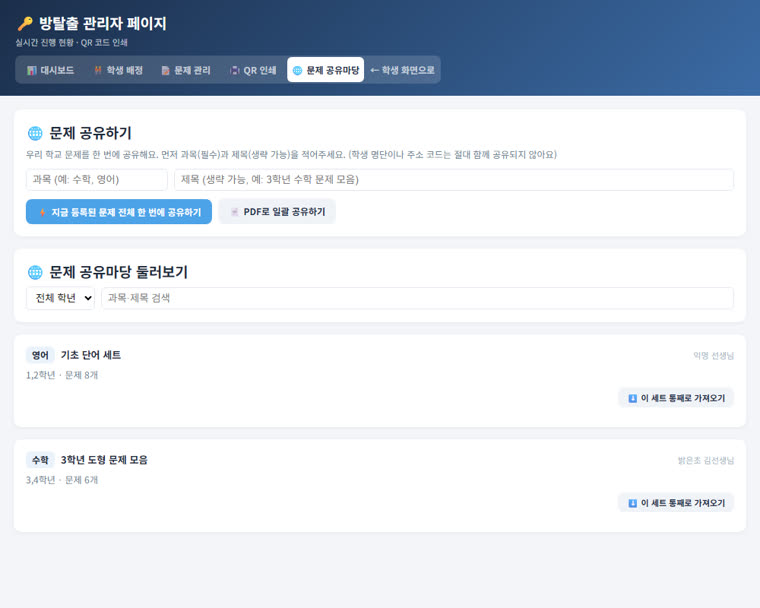
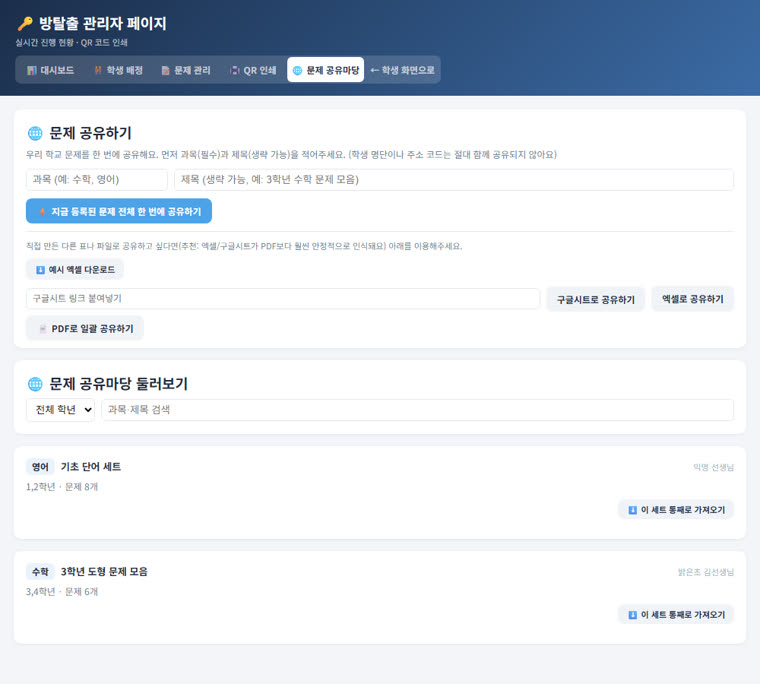
feat: add Excel/Google Sheets option to the question-sharing feature too
The 문제 공유마당 tab's bulk-share still only offered a PDF path, the
same font/text-extraction fragility already fixed for regular question
uploads. Added 엑셀로 공유하기/구글시트로 공유하기 alongside it, reusing
parseQuestionsSheetRows and the existing example .xlsx, with PDF kept
as a fallback. Refactored the PDF/Excel share handlers to share a
buildShareQuestionsMap() helper. Verified end-to-end: uploading the
sample sheet pushes a shared set with the correct 3 non-random
questions. Updated the usage guide's step 8 and its screenshot to match.

diff --git a/index.html b/index.html
@@ -1173,7 +1173,8 @@ function renderGuideTab(targetId){
     "우리 학교가 만든 문제를 다른 학교 선생님과 나누거나, 반대로 다른 학교가 공유한 문제를 통째로 가져와 쓸 수 있는 기능이에요. 꼭 쓰지 않아도 되고, 필요할 때만 이용하시면 돼요.",
     [
     "위쪽 탭에서 <b>문제 공유마당</b>을 누르면 위쪽에는 공유하기, 아래쪽에는 다른 선생님들이 올린 문제 목록이 나와요.",
-    "과목(필수)과 제목(생략 가능)을 적은 뒤 <b>지금 등록된 문제 전체 한 번에 공유하기</b>를 누르면, 지금 우리 학교에 저장된 문제가 통째로 공유마당에 올라가요. PDF 파일로도 바로 공유할 수 있어요.",
+    "과목(필수)과 제목(생략 가능)을 적은 뒤 <b>지금 등록된 문제 전체 한 번에 공유하기</b>를 누르면, 지금 우리 학교에 저장된 문제가 통째로 공유마당에 올라가요.",
+    "따로 만든 표나 파일로 공유하고 싶다면 <b>엑셀로 공유하기</b> 또는 <b>구글시트로 공유하기</b>를 이용해주세요 (3단계의 엑셀 예시와 같은 형식이에요). PDF로도 공유할 수 있지만, 3단계와 마찬가지로 PDF는 만든 프로그램에 따라 인식이 안 될 수 있어 엑셀/구글시트를 추천해요.",
     "학생 명단이나 우리 학교 주소 코드, 비밀번호는 절대 함께 공유되지 않아요 — 오직 문제 내용만 올라가요.",
     "다른 학교가 올린 세트가 마음에 들면 학년·검색으로 찾은 뒤 <b>이 세트 통째로 가져오기</b>를 누르세요. 같은 자리(qid)의 우리 학교 문제가 그 내용으로 바뀌고, 학생 화면에 바로 반영돼요."
     ],
@@ -2611,10 +2612,67 @@ function shareCurrentQuestionsBulk(){
     pushSharedSet(buildCurrentQuestionsSnapshot(snap.val()||{}));
   }).catch(e=>alert("문제를 불러오지 못했어요: "+e.message));
 }
+/* parsed({qid,grade,unit,text,answer}) 배열 → 공유용 questions 맵. 랜덤 출제 문제는 정답이
+   고정돼 있지 않아 공유 대상에서 뺀다 (버튼으로 만들어 공유하든 PDF로 만들어 공유하든 공통 로직). */
+function buildShareQuestionsMap(parsed){
+  const questions={};
+  parsed.forEach(p=>{
+    if(p.answer==null)return;
+    questions[p.qid]={grade:p.grade,unit:p.unit,text:p.text,answer:p.answer,img:null};
+  });
+  return questions;
+}
+function requireShareSubject(){
+  const subject=(document.getElementById("shareSubjectInp").value||"").trim();
+  if(!subject)alert("과목을 먼저 입력해주세요. (예: 수학, 영어 등)");
+  return subject;
+}
+function showShareFileErr(msg){
+  const el=document.getElementById("sharePdfErr");
+  if(el){el.style.display="";el.textContent=msg;}
+}
+function shareViaExcelBulk(file){
+  if(!file)return;
+  if(!requireShareSubject())return;
+  const errEl=document.getElementById("sharePdfErr");
+  if(errEl)errEl.style.display="none";
+  const reader=new FileReader();
+  reader.onload=function(e){
+    try{
+      const wb=XLSX.read(e.target.result,{type:"array"});
+      const sheet=wb.Sheets[wb.SheetNames[0]];
+      const rows=XLSX.utils.sheet_to_json(sheet,{header:1}).map(r=>r.map(c=>(c===undefined||c===null)?"":String(c)));
+      const parsed=parseQuestionsSheetRows(rows);
+      if(parsed.length===0){showShareFileErr("표에서 문제를 찾지 못했어요. '문제번호, 학년, 단원, 문제, 정답' 순서인지 확인해주세요.");return;}
+      pushSharedSet(buildShareQuestionsMap(parsed));
+    }catch(err){
+      showShareFileErr("엑셀 파일을 읽지 못했어요.");
+    }
+  };
+  reader.readAsArrayBuffer(file);
+}
+async function shareViaSheetBulk(){
+  if(!requireShareSubject())return;
+  const url=(document.getElementById("shareSheetUrlInp").value||"").trim();
+  const id=RosterUtils.extractSheetId(url);
+  const errEl=document.getElementById("sharePdfErr");
+  if(errEl)errEl.style.display="none";
+  if(!id){showShareFileErr("올바른 구글시트 링크가 아니에요.");return;}
+  try{
+    const res=await fetch(RosterUtils.buildSheetCsvUrl(id));
+    if(!res.ok)throw new Error("fetch failed");
+    const text=await res.text();
+    const rows=RosterUtils.parseCSV(text);
+    const parsed=parseQuestionsSheetRows(rows);
+    if(parsed.length===0){showShareFileErr("표에서 문제를 찾지 못했어요. '문제번호, 학년, 단원, 문제, 정답' 순서인지 확인해주세요.");return;}
+    pushSharedSet(buildShareQuestionsMap(parsed));
+  }catch(e){
+    showShareFileErr("시트를 불러오지 못했어요. 공유 설정이 '링크가 있는 모든 사용자 - 뷰어'인지 확인해주세요.");
+  }
+}
 async function shareViaPdfBulk(file){
   if(!file)return;
-  const subject=(document.getElementById("shareSubjectInp").value||"").trim();
-  if(!subject){alert("과목을 먼저 입력해주세요. (예: 수학, 영어 등)");return;}
+  if(!requireShareSubject())return;
   const errEl=document.getElementById("sharePdfErr");
   if(errEl)errEl.style.display="none";
   try{
@@ -2622,12 +2680,7 @@ async function shareViaPdfBulk(file){
     const text=await extractPdfText(file);
     const parsed=parseQuestionsPdfText(text);
     if(parsed.length===0)throw new Error("PDF에서 문제를 찾지 못했어요. '문제 관리' 화면을 인쇄해서 만든 PDF가 맞는지 확인해주세요.");
-    const questions={};
-    parsed.forEach(p=>{
-      if(p.answer==null)return; // 랜덤 출제 문제는 제외
-      questions[p.qid]={grade:p.grade,unit:p.unit,text:p.text,answer:p.answer,img:null};
-    });
-    pushSharedSet(questions);
+    pushSharedSet(buildShareQuestionsMap(parsed));
   }catch(e){
     if(errEl){errEl.style.display="";errEl.textContent=e.message||String(e);}
   }
@@ -2657,8 +2710,15 @@ function renderShareTab(){
   h+='<input type="text" id="shareSubjectInp" placeholder="과목 (예: 수학, 영어)" style="min-width:120px;padding:6px 8px;border-radius:6px;border:1px solid var(--bdr);">';
   h+='<input type="text" id="shareTitleInp" placeholder="제목 (생략 가능, 예: 3학년 수학 문제 모음)" style="flex:1;min-width:180px;padding:6px 8px;border-radius:6px;border:1px solid var(--bdr);">';
   h+='</div>';
-  h+='<div style="display:flex;gap:8px;flex-wrap:wrap;align-items:center;">';
-  h+='<button class="btn btn-primary" style="padding:8px 14px;font-size:12px" onclick="shareCurrentQuestionsBulk()">⚡ 지금 등록된 문제 전체 한 번에 공유하기</button>';
+  h+='<div style="margin-bottom:10px;"><button class="btn btn-primary" style="padding:8px 14px;font-size:12px" onclick="shareCurrentQuestionsBulk()">⚡ 지금 등록된 문제 전체 한 번에 공유하기</button></div>';
+  h+='<div style="border-top:1px solid var(--bdr);padding-top:10px;">';
+  h+='<div style="font-size:11px;color:var(--tx2);margin-bottom:8px;">직접 만든 다른 표나 파일로 공유하고 싶다면(추천: 엑셀/구글시트가 PDF보다 훨씬 안정적으로 인식돼요) 아래를 이용해주세요.</div>';
+  h+='<div style="margin-bottom:8px;"><a class="btn btn-sub" style="display:inline-block;text-decoration:none;font-size:11px;padding:6px 12px;" href="assets/samples/sample_questions.xlsx" download="방탈출_문제_예시양식.xlsx">⬇ 예시 엑셀 다운로드</a></div>';
+  h+='<div style="display:flex;gap:8px;flex-wrap:wrap;align-items:center;margin-bottom:8px;">';
+  h+='<input type="text" id="shareSheetUrlInp" placeholder="구글시트 링크 붙여넣기" style="flex:1;min-width:200px;padding:6px 8px;border-radius:6px;border:1px solid var(--bdr);font-size:12px;">';
+  h+='<button class="btn btn-sub" style="padding:8px 14px;font-size:12px" onclick="shareViaSheetBulk()">구글시트로 공유하기</button>';
+  h+='<label class="btn btn-sub" style="padding:8px 14px;font-size:12px;cursor:pointer;">엑셀로 공유하기<input type="file" id="shareExcelInp" accept=".xlsx,.xls" style="display:none" onchange="shareViaExcelBulk(this.files[0])"></label>';
+  h+='</div>';
   h+='<label class="btn btn-sub" style="padding:8px 14px;font-size:12px;cursor:pointer;">📄 PDF로 일괄 공유하기<input type="file" accept="application/pdf" style="display:none" onchange="shareViaPdfBulk(this.files[0])"></label>';
   h+='</div>';
   h+='<div id="sharePdfErr" style="display:none;color:var(--red);font-size:12px;margin-top:8px;"></div>';
